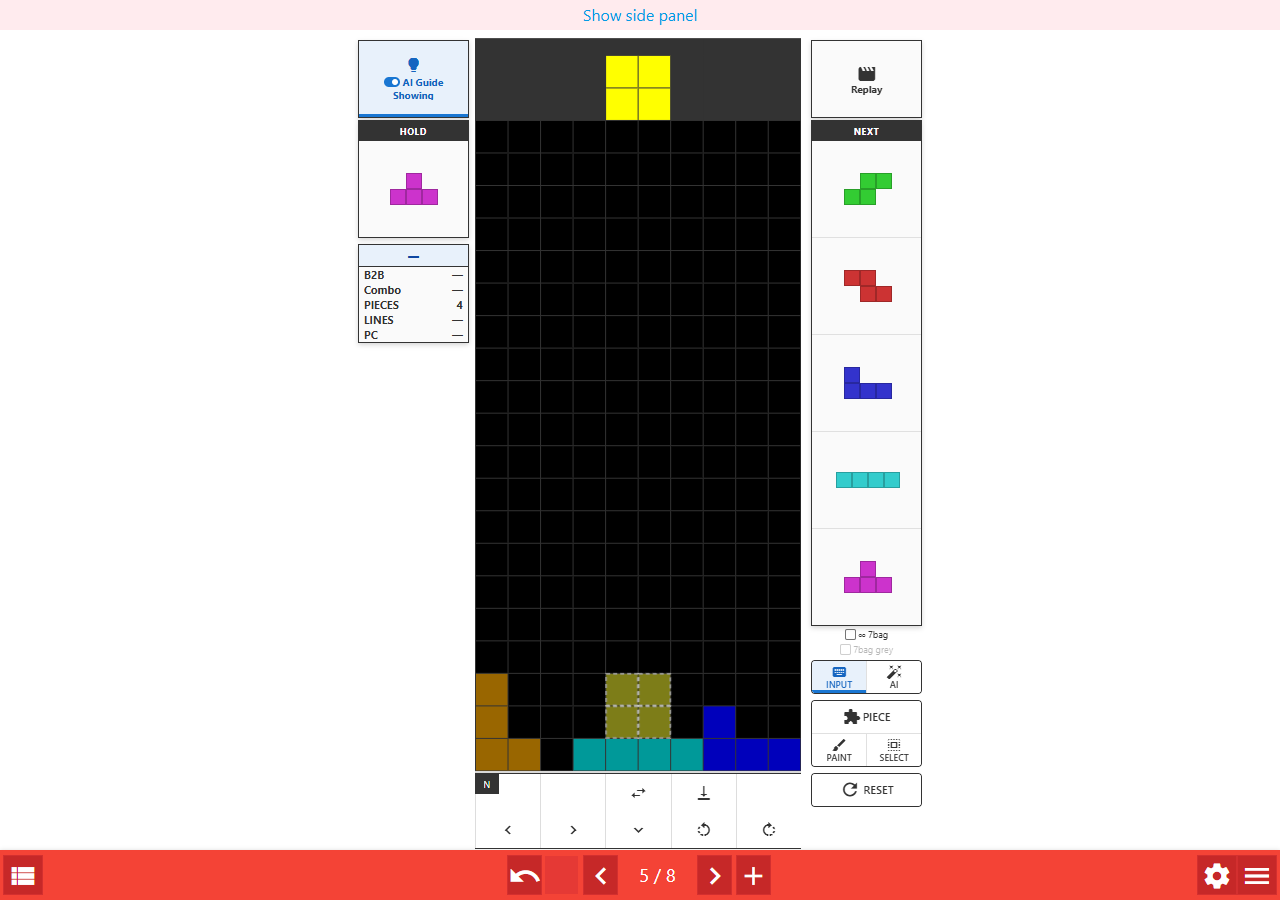
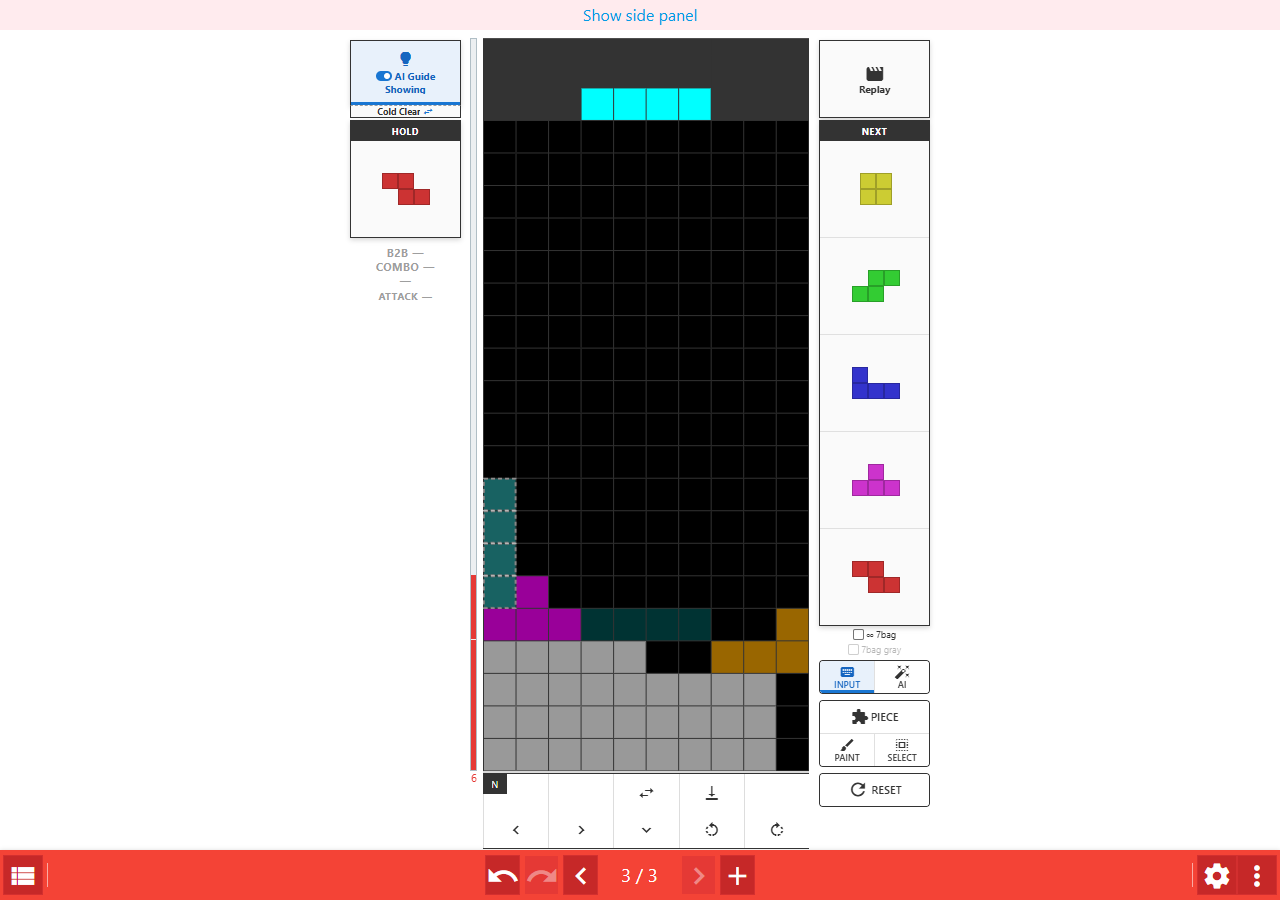
Update the user manual for the INPUT window and keep-gray setting
Document the tabbed INPUT window (piece queue, B2B / COMBO, garbage),
the INPUT share URL and autosave, the garbage gauge, Hold take-out,
placing CURRENT by tapping the AI guide, the plain B2B / COMBO counters,
closing UTILS with its button, and the new setting that keeps gray
blocks a drag passes over, in both the Japanese and English manuals.
Recapture the INPUT screenshot and add an INPUT window screenshot, and
use the current 7bag gray and Replay labels.

Model: Claude Opus 5.5

diff --git a/resources/manual/index.html b/resources/manual/index.html
@@ -67,8 +67,8 @@
 
     <h3>PAINTで描く</h3>
     <div class="cards">
-      <div class="card"><h3>ペン</h3><p>7色・黒・灰色から選び、タップまたはドラッグでブロックを置きます。色を長押しすると対応するミノを出現させ、PIECEへ切り替わります。</p></div>
-      <div class="card"><h3>消しゴム</h3><p>ブロックを消します。設定の<strong>消しゴムのドラッグでSPAWNミノも削除する</strong>が有効なら、ドラッグが通過したSPAWNミノも削除します。</p></div>
+      <div class="card"><h3>ペン</h3><p>7色・黒・灰色から選び、タップまたはドラッグでブロックを置きます。色を長押しすると対応するミノを出現させ、PIECEへ切り替わります。設定の<strong>ドラッグで通過したグレーを変更しない</strong>が有効なら、グレー以外のマスから始めたドラッグでは灰色ブロックを塗り替えません。灰色ブロックの上から始めると通常どおり塗れます。</p></div>
+      <div class="card"><h3>消しゴム</h3><p>ブロックを消します。設定の<strong>消しゴムのドラッグでSPAWNミノも削除する</strong>が有効なら、ドラッグが通過したSPAWNミノも削除します。<strong>ドラッグで通過したグレーを変更しない</strong>が有効なら、グレー以外のマスから始めたドラッグでは灰色ブロックを残します。</p></div>
       <div class="card"><h3>塗りつぶし・行を塗る</h3><p>連続した範囲または1行を選択色で塗ります。黒（空）を選ぶと同じ範囲を消去します。</p></div>
       <div class="card"><h3>COMP</h3><p>マスを4つ選び、形からミノを推定して対応色で確定します。長押しすると色付きブロックとSPAWNミノを消し、灰色ブロックを残します。</p></div>
       <div class="card"><h3>ミノ ⇄ ブロック</h3><p>操作トレイの<strong>ブロック化</strong>でSPAWNミノを同じ位置の4ブロックへ変換します。SPAWNミノがないときは<strong>ミノ化</strong>を押し、強調表示された形から1つ選ぶとミノに戻せます。選択中のボタンは<strong>やめる</strong>になり、もう一度押すと中止します。UTILSの<strong>SPAWNミノ ⇄ ブロック</strong>やキー割り当て（既定はB）からも実行できます。ブロック化後は固定によるライン消去は行われません。</p></div>
@@ -102,7 +102,7 @@
         <tbody>
           <tr><td>PAINT</td><td>ペン、消しゴム、塗りつぶし、行を塗る、ブロック化／ミノ化。パレットはブロック色として表示されます。</td></tr>
           <tr><td>PIECE</td><td>パレットからミノを出現させ、Hold、ハードドロップ、左右移動、ソフトドロップ、左右回転を操作します。SRS+では180°回転も使えます。左右移動の長押しはDAS・ARRの設定に従って連続移動します。パレットの<strong>削除</strong>でミノを消し、<strong>RESPAWN</strong>で出し直します。PIECE中の <strong>+</strong> は、次ページを作るときに盤面をグレー化します。</td></tr>
-          <tr><td>INPUT</td><td>キューのCURRENTを直接操作します。HOLD・NEXT、配置統計、AIガイド、リプレイボタンを表示します。</td></tr>
+          <tr><td>INPUT</td><td>キューのCURRENTを直接操作します。HOLD・NEXT、B2B・COMBO、せり上がりゲージ、AIガイド、Replayボタンを表示します。</td></tr>
           <tr><td>SELECT</td><td>盤面をドラッグして矩形選択し、コピー、切り取り、左回転、右回転、反転を行います。</td></tr>
         </tbody>
       </table>
@@ -110,16 +110,37 @@
     <p class="note">選択中のPAINTまたはSELECTをもう一度押すと、盤面下の操作トレイを表示／非表示にできます。非表示の間はせり上がり行を編集できます。トレイが収まらないときは文字をアイコンにまとめ、それでも収まらなければ横スクロールできます。</p>
 
     <h3>INPUTで実戦のように操作する</h3>
-    <figure class="shot"><img src="./images/input.png" alt="PCのINPUT画面。左にAIガイド、HOLD、配置統計、右にリプレイボタン、NEXT、∞ 7bagと7bag greyがあり、盤面下部にAIガイドの推奨位置が点線枠で表示されています。"><figcaption>INPUT。HOLDの上にAIガイド、NEXTの上にリプレイボタンがあります。AIガイドを有効にすると、CURRENTの推奨位置が半透明のブロックと点線枠で表示されます。</figcaption></figure>
+    <figure class="shot"><img src="./images/input.png" alt="PCのINPUT画面。左にAIガイド、HOLD、B2B・COMBO、盤面の左端にせり上がりゲージ、右にReplayボタン、NEXT、∞ 7bagと7bag grayがあり、盤面左側にAIガイドの推奨位置が点線枠で表示されています。"><figcaption>INPUT。HOLDの上にAIガイド、下にB2B・COMBO、NEXTの上にReplayボタン、盤面の左にせり上がりゲージがあります。AIガイドを有効にすると、CURRENTの推奨位置が半透明のブロックと点線枠で表示されます。</figcaption></figure>
     <ul>
       <li><strong>INPUT：</strong>レールの<strong>INPUT</strong>から開きます。キューのCURRENTを操作し、ハードドロップすると次のページへ進んで次のCURRENTが出現します。NEXTは近いピースから上へ並びます。</li>
-      <li><strong>HOLD / NEXT：</strong>選ぶと<strong>ピースキュー設定</strong>が開きます。キューはページコメントへ <code>#Q=[](I)OTLJSZ</code> のような形式で保存されます。閉じるときにCURRENTが空ならNEXTの先頭がCURRENTへ移ります。</li>
-      <li><strong>配置統計：</strong>HOLDの下に直前のライン消去・Spinと、B2B、Combo、設置、消去、PCを表示します。TETR.IO リプレイから取り出したページでは、攻撃・相殺・送信も表示します。画面の高さに応じて項目は省略されます。</li>
-      <li><strong>AIガイド：</strong>HOLDの上のボタンでオン／オフします。詳しくは<a href="#ai-guide">INPUTのAIガイド</a>を参照してください。</li>
-      <li><strong>リプレイ：</strong>NEXTの上のボタンで<a href="#replay">TETR.IO リプレイ</a>画面を開きます。</li>
-      <li><strong>∞ 7bag：</strong>ランダムな7種1組のキューを自動補充します。オンの間だけ、直下の<strong>7bag grey</strong>を切り替えられます。</li>
-      <li><strong>7bag grey：</strong>7個ごとにページをまとめ、確定したbagの地形をグレー化します。通常コメントは表示せず、キューと進捗は編集用データとして保持します。ツリーモードではINPUT用の作業分岐を保護します。</li>
+      <li><strong>HOLD / NEXT：</strong>選ぶと<a href="#input-window">INPUTウィンドウ</a>の<strong>ピースキュー</strong>タブが開きます。キューはページコメントへ <code>#Q=[](I)OTLJSZ</code> のような形式で保存されます。閉じるときにCURRENTが空ならNEXTの先頭がCURRENTへ移ります。</li>
+      <li><strong>Hold：</strong>CURRENTとHOLDを入れ替えます。NEXTとCURRENTを使い切った後は、HOLDのミノを取り出して置けます。</li>
+      <li><strong>B2B・COMBO：</strong>HOLDの下に、直前のライン消去・SpinとB2B・COMBOを表示します。連鎖中は緑色になります。キックテーブルがSRS+のときはB2Bを連鎖数で数え、Surgeがチャージされると⚡が付きます。SRSではB2Bは0か1、クラシックではB2Bなしです。TETR.IO リプレイから取り出したページやせり上がりを設定したページでは、ATTACK・CANCEL・SENTも表示します。選ぶとINPUTウィンドウの<strong>B2B / COMBO</strong>タブが開きます。</li>
+      <li><strong>せり上がりゲージ：</strong>盤面の左に、これからせり上がる段数を表示します。INPUTのときだけ表示され、選ぶとINPUTウィンドウの<strong>せり上がり</strong>タブが開きます。</li>
+      <li><strong>AIガイド：</strong>HOLDの上のボタンでオン／オフします。表示されたガイドを盤面で選ぶと、その位置にCURRENTを置きます。詳しくは<a href="#ai-guide">INPUTのAIガイド</a>を参照してください。</li>
+      <li><strong>Replay：</strong>NEXTの上のボタンで<a href="#replay">TETR.IO リプレイ</a>画面を開きます。</li>
+      <li><strong>∞ 7bag：</strong>ランダムな7種1組のキューを自動補充します。オンの間だけ、直下の<strong>7bag gray</strong>を切り替えられます。</li>
+      <li><strong>7bag gray：</strong>7個ごとにページをまとめ、確定したbagの地形をグレー化します。通常コメントは表示せず、キューと進捗は編集用データとして保持します。ツリーモードではINPUT用の作業分岐を保護します。</li>
       <li><strong>RESET：</strong>盤面とCURRENTをリセットします。∞ 7bagがオンのときは、新しいランダムキューで最初から始めます。</li>
+    </ul>
+
+    <h3 id="input-window">INPUTウィンドウ</h3>
+    <p>HOLD・NEXT、B2B・COMBO、せり上がりゲージを選ぶと、そのタブを開いた状態でINPUTウィンドウが開きます。上部のタブで切り替えられます。</p>
+    <figure class="shot"><img src="./images/input-window.png" alt="INPUTウィンドウのせり上がりタブ。右上にShare、その下にピースキュー、B2B / COMBO、せり上がりのタブがあり、区間ごとの段数と穴の列、区間を追加、すべて消去、合計段数が並んでいます。"><figcaption>INPUTウィンドウ（せり上がりタブ）。区間ごとに段数と穴の列を設定します。右上のShareでINPUT状態の共有URLをコピーします。</figcaption></figure>
+    <div class="table-wrap">
+      <table>
+        <thead><tr><th>タブ</th><th>できること</th></tr></thead>
+        <tbody>
+          <tr><td>ピースキュー</td><td>HOLD・CURRENT・NEXTを編集します。内容はタブを離れるか閉じるときにページコメントへ書き込まれます。</td></tr>
+          <tr><td>B2B / COMBO</td><td>B2BとCOMBOの連鎖数（chain）を入力します。キックテーブルがSRS+なら任意の数、SRSなら0か1を入力でき、クラシックではB2Bを入力できません。変更は1回のUndoで戻せます。</td></tr>
+          <tr><td>せり上がり</td><td>1つの区間が1回分の攻撃です。区間ごとに段数と穴の列（固定またはランダム）を設定し、<strong>区間を追加</strong>・<strong>すべて消去</strong>で増減します。ラインを消さずにミノを置くたびに、下の区間から1つずつせり上がり（1回最大8段）、ラインを消すと先に相殺されます。内容はタブを離れるか閉じるときに反映されます。</td></tr>
+        </tbody>
+      </table>
+    </div>
+    <ul>
+      <li><strong>Share：</strong>右上のボタンで、現在の盤面・キュー・せり上がり・B2B／COMBO・ルールを1ページの共有URLとしてコピーします。開くとEditのINPUTで同じ状態から続けられます。端末の共有機能が使えるブラウザでは、隣の共有アイコンから送れます。キー割り当ての<strong>INPUT状態の共有URLをコピー</strong>にキーを設定すると、キー操作でもコピーできます。</li>
+      <li><strong>自動保存：</strong>INPUTの状態はブラウザ内の自動保存にも含まれ、再読み込みしても続きから操作できます。</li>
+      <li>送信元とキックテーブルが違う場合は通知が表示されます。自分のキックテーブル設定は変更されません。</li>
     </ul>
 
     <h3>SELECTで範囲を再利用する</h3>
@@ -140,7 +161,7 @@
       <li><strong>編集モード：</strong><strong>スライド</strong>は盤面を上下左右へ動かすトレイ（上へ + グレー、上、左、右、下、完了）を、<strong>コメント</strong>は空にする・引き継ぐのトレイを開きます。</li>
       <li><strong>TETR.IO リプレイ：</strong><strong>TETR.IO Replayを開く</strong>でリプレイ画面へ移動します。</li>
       <li><strong>FLAGS：</strong>キーページ／参照ページ、固定、せり上がり、反転フラグを切り替えます。固定がオンのページでは、次ページへ進むときにライン消去を反映します。</li>
-      <li><strong>パネル：</strong>見出しをドラッグして移動できます。項目を選ぶと閉じます。ユーザー設定の<strong>UTILSメニューを開いたままにする</strong>を有効にすると、盤面を操作しながら続けて項目を選べます。</li>
+      <li><strong>パネル：</strong>見出しをドラッグして移動できます。項目を選ぶか、UTILSボタンをもう一度押すと閉じます。ユーザー設定の<strong>UTILSメニューを開いたままにする</strong>を有効にすると、盤面を操作しながら続けて項目を選べます。</li>
     </ul>
   </section>
 
@@ -280,6 +301,7 @@
     <ul>
       <li>INPUTでHOLDの上の<strong>AIガイド</strong>を選ぶとオン／オフが切り替わります。オンにすると、CURRENTの最善手を半透明のブロックと点線枠で盤面に表示します。</li>
       <li>ボタンには<strong>OFF</strong>、<strong>待機中</strong>、<strong>計算中…</strong>、<strong>表示中</strong>の状態が表示されます。1手置くたびに再計算し、Holdしても表示中のガイドは固定するまで同じ位置に残ります。</li>
+      <li>表示中のガイドを盤面で選ぶと、その位置にCURRENTを置きます。AIがHoldを使う手では、先にHoldしてから置きます。Spinも判定されます。</li>
       <li>使用できない局面では、<strong>キューなし</strong>、<strong>ミノ不一致</strong>、<strong>フラグ非対応</strong>、<strong>NEXT不足</strong>、<strong>消去待ち</strong>、<strong>候補なし</strong>、<strong>プレビュー中</strong>、<strong>AIエラー</strong>などの理由が赤字で表示されます。</li>
       <li>AIメニューのエンジン、Hold使用、NEXT制限、思考時間などの設定と、コメントのB2B・Comboを使って計算します。</li>
     </ul>
@@ -345,7 +367,7 @@
       <table>
         <thead><tr><th>タブ</th><th>主な設定</th></tr></thead>
         <tbody>
-          <tr><td>編集</td><td><strong>消しゴムのドラッグでSPAWNミノも削除する</strong>、<strong>PAINTパレットをミノ画像で表示</strong>、<strong>FLAGSを表示</strong>、<strong>+ボタンでグレー化</strong>、<strong>ブロック表面のマーク</strong></td></tr>
+          <tr><td>編集</td><td><strong>消しゴムのドラッグでSPAWNミノも削除する</strong>、<strong>ドラッグで通過したグレーを変更しない</strong>、<strong>PAINTパレットをミノ画像で表示</strong>、<strong>FLAGSを表示</strong>、<strong>+ボタンでグレー化</strong>、<strong>ブロック表面のマーク</strong></td></tr>
           <tr><td>リスト/ツリー</td><td><strong>上部の空白行を省略</strong>、<strong>+ボタンでグレー化</strong>、<strong>サイドパネルを表示（PC）</strong></td></tr>
           <tr><td>INPUT</td><td><strong>ゴースト表示</strong>、<strong>キックテーブル</strong>、ARR・DAS・DCD・SDF、<strong>ソフトドロップ優先</strong>、<strong>7bagグレー</strong></td></tr>
           <tr><td>キー割り当て</td><td><strong>ショートカットラベル表示</strong>、<strong>ピースコントロール</strong>、<strong>パレットショートカット</strong>、<strong>編集用ショートカット</strong></td></tr>
@@ -358,7 +380,8 @@
       <li><strong>キーの変更：</strong>対象欄を選んでキーを押します。Backspaceで割り当てを解除できます。</li>
       <li><strong>キックテーブル：</strong>「クラシック」「SRS」「SRS+」から選びます。SRS+では180°回転も利用できます。Spinの判定もキックテーブルに従います。</li>
       <li><strong>ARR・DAS・DCD・SDF：</strong>PIECEとINPUTの左右移動とソフトドロップの速さを調整します。ARRを0にすると端まで即移動します。</li>
-      <li><strong>7bagグレー：</strong>INPUTの盤面横にある<strong>7bag grey</strong>と同じ設定です。INPUTで∞ 7bagを使うときに働きます。</li>
+      <li><strong>7bagグレー：</strong>INPUTの盤面横にある<strong>7bag gray</strong>と同じ設定です。INPUTで∞ 7bagを使うときに働きます。</li>
+      <li><strong>ドラッグで通過したグレーを変更しない：</strong>オンにすると、グレー以外のマスから始めたペン・消しゴムのドラッグで、灰色ブロックを塗り替えたり消したりしません。灰色ブロックの上から始めたドラッグは通常どおり変更します。初期設定はオフです。</li>
       <li><strong>FLAGSを表示：</strong>オンにすると、レールのUTILSの隣にFLAGSが表示されます。</li>
       <li><strong>PAINTパレットをミノ画像で表示：</strong>オンにすると、PAINTの色見本を対応するミノ画像で表示します。PIECEのパレット表示には影響しません。</li>
       <li><strong>初期画面：</strong>起動時に開くReader・Edit・List・Tree画面を選びます。<strong>ツリーデータ(#TREE)を含むテト譜はTree画面で開く</strong>がオンなら、ツリー付きのテト譜はTreeで開きます。</li>

diff --git a/resources/manual/en/index.html b/resources/manual/en/index.html
@@ -67,8 +67,8 @@
 
     <h3>Draw with PAINT</h3>
     <div class="cards">
-      <div class="card"><h3>Pen</h3><p>Choose from seven colors, black, or gray, then tap or drag to place blocks. Long-press a color to spawn its corresponding piece and switch to PIECE.</p></div>
-      <div class="card"><h3>Erase</h3><p>Remove blocks. When <strong>Delete spawn mino when an eraser drag passes over it</strong> is enabled, the drag also removes SPAWN pieces it passes over.</p></div>
+      <div class="card"><h3>Pen</h3><p>Choose from seven colors, black, or gray, then tap or drag to place blocks. Long-press a color to spawn its corresponding piece and switch to PIECE. When <strong>Keep gray blocks that a drag passes over</strong> is enabled, a drag that starts on a non-gray cell does not recolor gray blocks; start on a gray block to change it as usual.</p></div>
+      <div class="card"><h3>Erase</h3><p>Remove blocks. When <strong>Delete spawn mino when an eraser drag passes over it</strong> is enabled, the drag also removes SPAWN pieces it passes over. When <strong>Keep gray blocks that a drag passes over</strong> is enabled, a drag that starts on a non-gray cell leaves gray blocks in place.</p></div>
       <div class="card"><h3>Fill and Fill row</h3><p>Fill a connected area or one row with the selected color. Choose black (empty) to erase the same area.</p></div>
       <div class="card"><h3>COMP</h3><p>Select four cells to infer a piece from its shape and confirm it with the matching color. Long-press to clear colored blocks and SPAWN pieces while leaving gray blocks.</p></div>
       <div class="card"><h3>Mino ⇄ blocks</h3><p>Use <strong>TO PAINT</strong> in the context tray to turn a SPAWN mino into four blocks at the same position. Without a SPAWN mino, press <strong>TO MINO</strong> and pick one of the highlighted shapes to turn it back into a mino. While picking, the button reads <strong>CANCEL</strong>; press it again to stop. The action is also available as <strong>Spawn mino / blocks</strong> in UTILS and as a key assignment (B by default). Paint blocks do not line-clear through Lock.</p></div>
@@ -102,7 +102,7 @@
         <tbody>
           <tr><td>PAINT</td><td>Use Pen, Erase, Fill, Fill row, and TO PAINT / TO MINO. The palette shows block colors.</td></tr>
           <tr><td>PIECE</td><td>Spawn pieces from the palette, then use Hold, hard drop, horizontal movement, soft drop, and rotation. SRS+ also offers 180° rotation. Holding a horizontal move repeats according to the DAS and ARR settings. Use <strong>Delete</strong> in the palette to remove the piece and <strong>RESPAWN</strong> to spawn it again. In PIECE, <strong>+</strong> grays out the field when it creates the next page.</td></tr>
-          <tr><td>INPUT</td><td>Directly operate the queue's CURRENT piece. It shows HOLD/NEXT, placement statistics, the AI Guide, and the Replay button.</td></tr>
+          <tr><td>INPUT</td><td>Directly operate the queue's CURRENT piece. It shows HOLD/NEXT, B2B and COMBO, the garbage gauge, the AI Guide, and the Replay button.</td></tr>
           <tr><td>SELECT</td><td>Drag across the field to select a rectangle, then copy, cut, rotate left, rotate right, or mirror it.</td></tr>
         </tbody>
       </table>
@@ -110,16 +110,37 @@
     <p class="note">Press the selected PAINT or SELECT button again to show or hide the context tools below the field. While they are hidden, you can edit the garbage (rise) row. When the tray is too narrow, labels collapse into icons first, and the tray scrolls horizontally if it still does not fit.</p>
 
     <h3>Play pieces in INPUT</h3>
-    <figure class="shot"><img src="../images/en/input.png" alt="INPUT on PC with the AI Guide, HOLD, and placement statistics on the left, the Replay button, NEXT, infinite 7-bag, and 7bag grey on the right, and the AI Guide's suggested placement drawn with a dashed outline near the bottom of the field."><figcaption>INPUT. The AI Guide sits above HOLD and the Replay button above NEXT. With the AI Guide on, the suggested placement for CURRENT appears as translucent blocks with a dashed outline.</figcaption></figure>
+    <figure class="shot"><img src="../images/en/input.png" alt="INPUT on PC with the AI Guide, HOLD, and B2B and COMBO on the left, the garbage gauge along the left edge of the field, the Replay button, NEXT, infinite 7-bag, and 7bag gray on the right, and the AI Guide's suggested placement drawn with a dashed outline on the left of the field."><figcaption>INPUT. The AI Guide sits above HOLD with B2B and COMBO below it, the Replay button above NEXT, and the garbage gauge left of the field. With the AI Guide on, the suggested placement for CURRENT appears as translucent blocks with a dashed outline.</figcaption></figure>
     <ul>
       <li><strong>INPUT:</strong> Open it from <strong>INPUT</strong> on the rail. Operate the queue's CURRENT piece; a hard drop moves to the next page and spawns the next CURRENT. NEXT is listed upward from the nearest piece.</li>
-      <li><strong>HOLD / NEXT:</strong> Select them to open <strong>Piece queue settings</strong>. The queue is stored in the page comment as data such as <code>#Q=[](I)OTLJSZ</code>. Closing the dialog promotes the first NEXT piece when CURRENT is empty.</li>
-      <li><strong>Placement statistics:</strong> Below HOLD, INPUT shows the latest line clear or spin plus B2B, Combo, PIECES, LINES, and PC. Pages taken from a TETR.IO replay also show ATTACK, CANCEL, and SENT. Short screens show fewer rows.</li>
-      <li><strong>AI Guide:</strong> Turn it on or off with the button above HOLD. See <a href="#ai-guide">The AI Guide in INPUT</a>.</li>
+      <li><strong>HOLD / NEXT:</strong> Select them to open the <strong>Piece queue</strong> tab of the <a href="#input-window">INPUT window</a>. The queue is stored in the page comment as data such as <code>#Q=[](I)OTLJSZ</code>. Closing the window promotes the first NEXT piece when CURRENT is empty.</li>
+      <li><strong>Hold:</strong> Swaps CURRENT and HOLD. Once NEXT and CURRENT are used up, Hold takes the HOLD piece out so you can place it.</li>
+      <li><strong>B2B and COMBO:</strong> Below HOLD, INPUT shows the latest line clear or spin plus B2B and COMBO, in green while a chain is active. With the SRS+ kick table, B2B counts as a chain and shows ⚡ once Surge is charged; with SRS, B2B is 0 or 1, and Classic has no B2B. Pages taken from a TETR.IO replay or with garbage set also show ATTACK, CANCEL, and SENT. Select the counters to open the <strong>B2B / COMBO</strong> tab of the INPUT window.</li>
+      <li><strong>Garbage gauge:</strong> Left of the field, the gauge shows the rows about to rise. It appears only in INPUT; select it to open the <strong>Garbage</strong> tab of the INPUT window.</li>
+      <li><strong>AI Guide:</strong> Turn it on or off with the button above HOLD. Select the shown guide on the field to place CURRENT there. See <a href="#ai-guide">The AI Guide in INPUT</a>.</li>
       <li><strong>Replay:</strong> The button above NEXT opens the <a href="#replay">TETR.IO Replay</a> screen.</li>
-      <li><strong>∞ 7bag:</strong> Automatically refills the queue with randomized seven-piece bags. <strong>7bag grey</strong> directly below it is available only while infinite 7-bag is on.</li>
-      <li><strong>7bag grey:</strong> Groups every seven placements into one page and grays the completed bag's field. It hides ordinary comments while keeping queue and progress as editor data. INPUT workspace branches are protected in Tree mode.</li>
+      <li><strong>∞ 7bag:</strong> Automatically refills the queue with randomized seven-piece bags. <strong>7bag gray</strong> directly below it is available only while infinite 7-bag is on.</li>
+      <li><strong>7bag gray:</strong> Groups every seven placements into one page and grays the completed bag's field. It hides ordinary comments while keeping queue and progress as editor data. INPUT workspace branches are protected in Tree mode.</li>
       <li><strong>RESET:</strong> Resets the field and CURRENT. With infinite 7-bag on, it starts over with a new random queue.</li>
+    </ul>
+
+    <h3 id="input-window">The INPUT window</h3>
+    <p>Selecting HOLD/NEXT, the B2B and COMBO counters, or the garbage gauge opens the INPUT window on the matching tab. Switch tabs at the top.</p>
+    <figure class="shot"><img src="../images/en/input-window.png" alt="The Garbage tab of the INPUT window. Share is at the top right, above the Piece queue, B2B / COMBO, and Garbage tabs, followed by segments with their lines and hole column, Add segment, Clear all, and the total."><figcaption>The INPUT window (Garbage tab). Set the lines and hole column for each segment. Share at the top right copies a share URL for the INPUT state.</figcaption></figure>
+    <div class="table-wrap">
+      <table>
+        <thead><tr><th>Tab</th><th>What you can do</th></tr></thead>
+        <tbody>
+          <tr><td>Piece queue</td><td>Edit HOLD, CURRENT, and NEXT. The queue is written to the page comment when you leave the tab or close the window.</td></tr>
+          <tr><td>B2B / COMBO</td><td>Type the B2B and COMBO chain counts. With SRS+ any count is accepted, with SRS B2B is 0 or 1, and Classic has no B2B input. One Undo takes the change back.</td></tr>
+          <tr><td>Garbage</td><td>Each segment is one incoming attack. Set the lines and the hole column (fixed or random) for each segment, and use <strong>Add segment</strong> or <strong>Clear all</strong>. Every lock that clears no line raises the next segment from the bottom of the list (up to 8 rows at a time); line clears cancel garbage first. Changes apply when you leave the tab or close the window.</td></tr>
+        </tbody>
+      </table>
+    </div>
+    <ul>
+      <li><strong>Share:</strong> The button at the top right copies a one-page share URL with the current field, queue, garbage, B2B and COMBO, and rules. Opening it continues from the same state in INPUT. Browsers with a system share sheet also show a share icon next to it. Assign a key to <strong>Copy INPUT share URL</strong> in the key settings to copy it from the keyboard.</li>
+      <li><strong>Autosave:</strong> The INPUT state is also kept in the browser's autosave, so a reload continues where you left off.</li>
+      <li>When the sender used a different kick table, a notice says so. Your own kick-table setting is not changed.</li>
     </ul>
 
     <h3>Reuse a region with SELECT</h3>
@@ -140,7 +161,7 @@
       <li><strong>Editing modes:</strong> <strong>Slide</strong> opens a tray for moving the field (Up + gray, Up, Left, Right, Down, Done). <strong>Comment</strong> opens a tray with Blank and Inherit.</li>
       <li><strong>TETR.IO Replay:</strong> <strong>Open TETR.IO replay</strong> moves to the replay screen.</li>
       <li><strong>FLAGS:</strong> Toggle Key page / Reference page, Lock, Rise, and Mirror flag. On a page with Lock on, line clears are applied when moving to the next page.</li>
-      <li><strong>Panels:</strong> Drag the header to move a panel. An item normally closes UTILS. Enable <strong>Keep the UTILS menu open</strong> to keep choosing items while using the field.</li>
+      <li><strong>Panels:</strong> Drag the header to move a panel. An item or another press of the UTILS button closes UTILS. Enable <strong>Keep the UTILS menu open</strong> to keep choosing items while using the field.</li>
     </ul>
   </section>
 
@@ -280,6 +301,7 @@
     <ul>
       <li>In INPUT, select <strong>AI Guide</strong> above HOLD to turn it on or off. When it is on, the best move for CURRENT appears on the field as translucent blocks with a dashed outline.</li>
       <li>The button shows its state: <strong>OFF</strong>, <strong>Waiting</strong>, <strong>Thinking…</strong>, or <strong>Showing</strong>. It recalculates after every placement, and a guide that is already showing stays in place when you Hold until the piece locks.</li>
+      <li>Select the shown guide on the field to place CURRENT there. When the AI's move uses Hold, it holds first. Spins are scored.</li>
       <li>When the guide cannot be used, a reason such as <strong>No queue</strong>, <strong>Wrong piece</strong>, <strong>Page flags</strong>, <strong>Need NEXT</strong>, <strong>Clear lines</strong>, <strong>No move</strong>, <strong>Previewing</strong>, or <strong>AI error</strong> appears in red.</li>
       <li>It uses the AI menu's engine, Hold usage, NEXT limit, think time, and other settings, together with B2B and Combo from the comment.</li>
     </ul>
@@ -345,7 +367,7 @@
       <table>
         <thead><tr><th>Tab</th><th>Main settings</th></tr></thead>
         <tbody>
-          <tr><td>Edit</td><td><strong>Delete spawn mino when an eraser drag passes over it</strong>, <strong>Show PAINT palette as mino images</strong>, <strong>Show FLAGS</strong>, <strong>Gray out with + button</strong>, and <strong>Block surface marker</strong></td></tr>
+          <tr><td>Edit</td><td><strong>Delete spawn mino when an eraser drag passes over it</strong>, <strong>Keep gray blocks that a drag passes over</strong>, <strong>Show PAINT palette as mino images</strong>, <strong>Show FLAGS</strong>, <strong>Gray out with + button</strong>, and <strong>Block surface marker</strong></td></tr>
           <tr><td>List &amp; Tree</td><td><strong>Trim top blank</strong>, <strong>Gray out with + button</strong>, and <strong>Show side panel (PC)</strong></td></tr>
           <tr><td>Input</td><td><strong>Show the ghost</strong>, <strong>Kick table</strong>, ARR, DAS, DCD, SDF, <strong>Soft drop priority</strong>, and <strong>7-bag gray</strong></td></tr>
           <tr><td>Keys</td><td><strong>Show shortcut labels</strong>, <strong>Piece controls</strong>, <strong>Palette shortcuts</strong>, and <strong>Edit shortcuts</strong></td></tr>
@@ -358,7 +380,8 @@
       <li><strong>Change a key:</strong> Select a field and press a key. Press Backspace to clear the assignment.</li>
       <li><strong>Kick table:</strong> Choose <strong>Classic</strong>, <strong>SRS</strong>, or <strong>SRS+</strong>. SRS+ also supports 180° rotation. Spin detection follows the kick table.</li>
       <li><strong>ARR, DAS, DCD, and SDF:</strong> Tune horizontal movement and soft drop speed in PIECE and INPUT. Set ARR to 0 to move to the edge instantly.</li>
-      <li><strong>7-bag gray:</strong> This is the same setting as <strong>7bag grey</strong> beside the INPUT field. It takes effect when infinite 7-bag is used in INPUT.</li>
+      <li><strong>7-bag gray:</strong> This is the same setting as <strong>7bag gray</strong> beside the INPUT field. It takes effect when infinite 7-bag is used in INPUT.</li>
+      <li><strong>Keep gray blocks that a drag passes over:</strong> When on, a Pen or Erase drag that starts on a non-gray cell neither recolors nor erases gray blocks. A drag that starts on a gray block changes it as usual. Off by default.</li>
       <li><strong>Show FLAGS:</strong> When on, FLAGS appears next to UTILS on the rail.</li>
       <li><strong>Show PAINT palette as mino images:</strong> Show PAINT color swatches as their corresponding mino images. It does not change the PIECE palette.</li>
       <li><strong>Initial screen:</strong> Choose Reader, Edit, List, or Tree as the screen opened at startup. When <strong>Open fumen with tree data (#TREE) in Tree screen</strong> is on, fumen data with a tree opens in Tree.</li>
